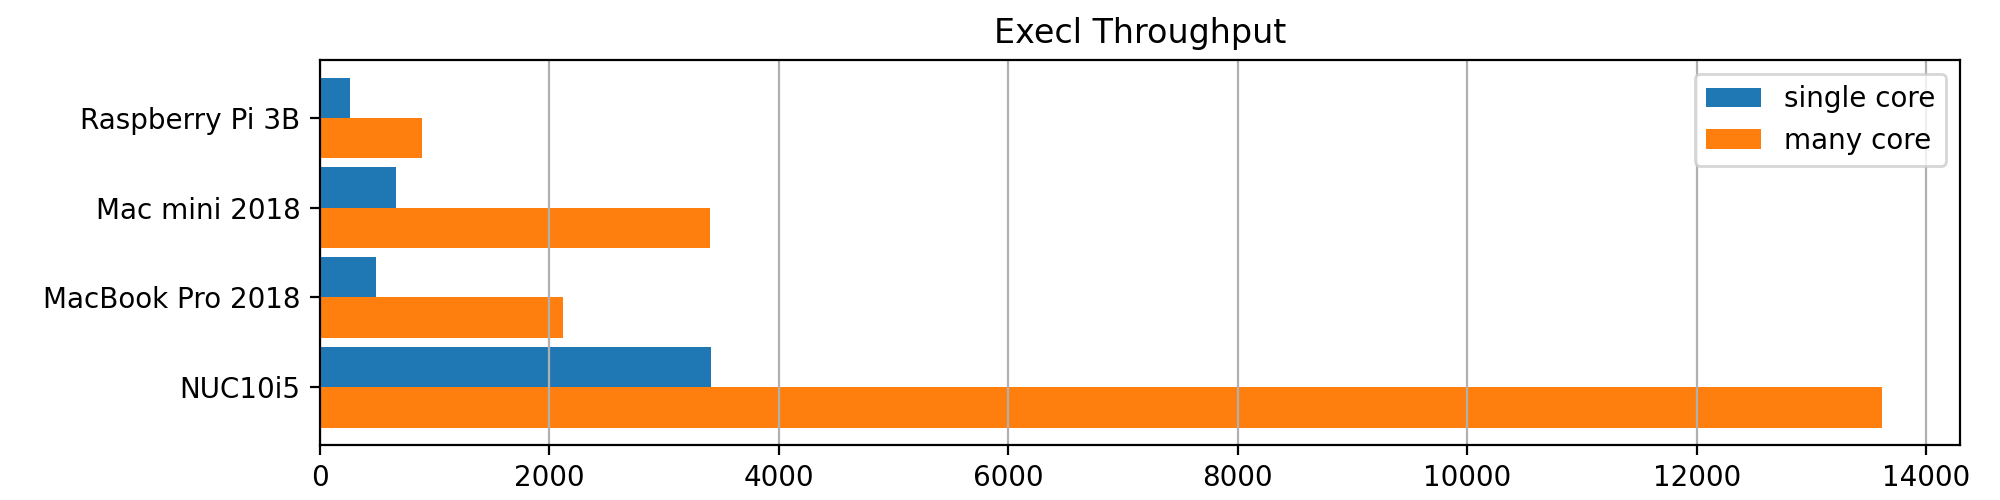
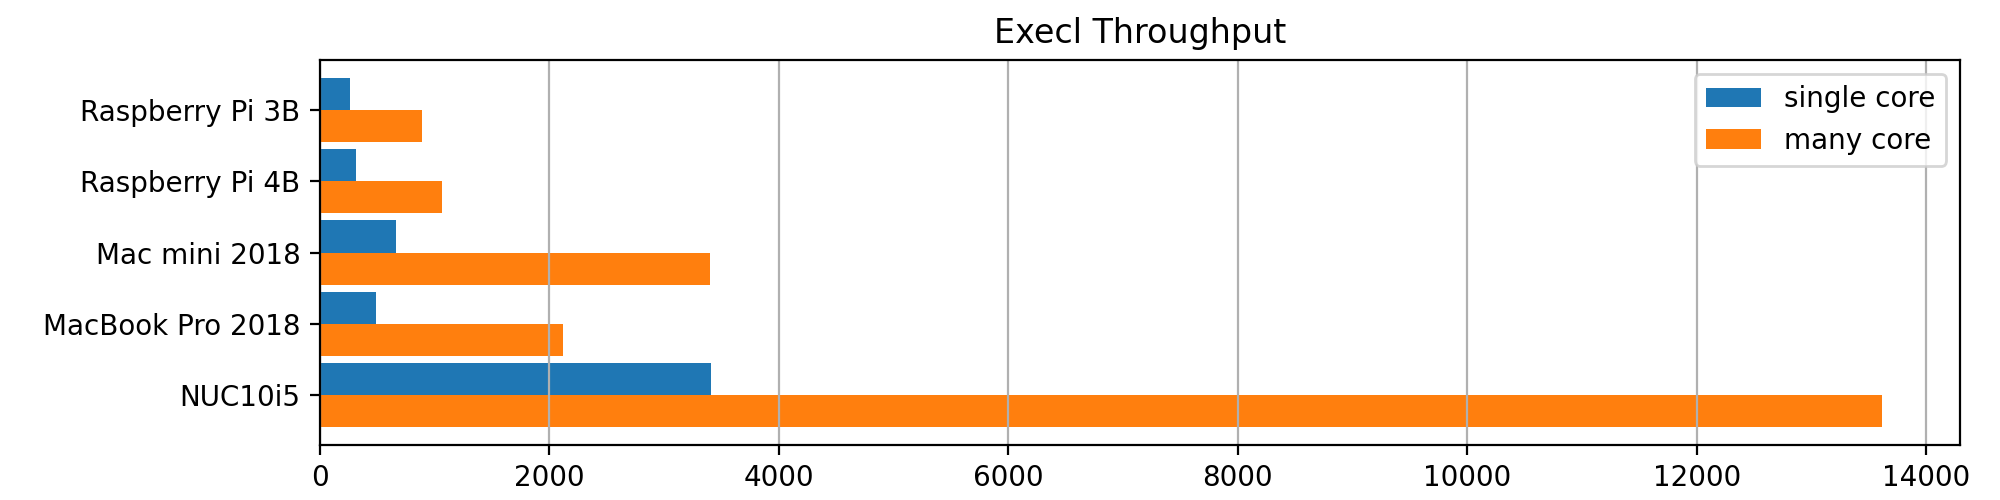
add Raspberry Pi 4B

Changed region(s): [[0.0, 0.27, 0.961, 0.81], [0.031, 0.18, 0.217, 0.27]]

diff --git a/raspi4B-2020-11-18-01.html b/raspi4B-2020-11-18-01.html
@@ -1,0 +1,344 @@
+<!DOCTYPE HTML PUBLIC "-//W3C//DTD HTML 4.01 Transitional//EN"
+"http://www.w3.org/TR/html4/loose.dtd">
+<html>
+<head>
+  <meta http-equiv="Content-Type" content="text/html; charset=utf-8">
+  <meta name="keywords" content="linux, benchmarks, benchmarking">
+  <title>Benchmark of Raspberry Pi 4B / GNU/Linux on 水 11月 18 2020</title>
+  <style type="text/css">
+    table {
+      margin: 1em 1em 1em 0;
+      background: #f9f9f9;
+      border: 1px #aaaaaa solid;
+      border-collapse: collapse;
+    }
+
+    table th, table td {
+      border: 1px #aaaaaa solid;
+      padding: 0.2em;
+    }
+
+    table th {
+      background: #f2f2f2;
+      text-align: center;
+    }
+  </style>
+</head>
+<body>
+<h2>Benchmark of Raspberry Pi 4B / GNU/Linux on 水 11月 18 2020</h2>
+<p><b>BYTE UNIX Benchmarks (Version 5.1.3)</b></p>
+
+<h3>Test System Information</h3>
+<p><table>
+<tr>
+   <td><b>System:</b></td>
+   <td colspan=2>Raspberry Pi 4B: GNU/Linux</td>
+</tr><tr>
+   <td><b>OS:</b></td>
+   <td colspan=2>GNU/Linux -- 5.4.72-v7l+ -- #1356 SMP Thu Oct 22 13:57:51 BST 2020</td>
+</tr><tr>
+   <td><b>Machine:</b></td>
+   <td colspan=2>armv7l: unknown</td>
+</tr><tr>
+   <td><b>Language:</b></td>
+   <td colspan=2>en_US.utf8 (charmap="UTF-8", collate="UTF-8")</td>
+</tr>
+<tr>
+   <td rowspan=4><b>CPUs:</b></td>
+   <td><b>0:</b></td>
+   <td>ARMv7 Processor rev 3 (v7l) (0.0 bogomips)<br/>
+       </td>
+</tr>
+<tr>
+   <td><b>1:</b></td>
+   <td>ARMv7 Processor rev 3 (v7l) (0.0 bogomips)<br/>
+       </td>
+</tr>
+<tr>
+   <td><b>2:</b></td>
+   <td>ARMv7 Processor rev 3 (v7l) (0.0 bogomips)<br/>
+       </td>
+</tr>
+<tr>
+   <td><b>3:</b></td>
+   <td>ARMv7 Processor rev 3 (v7l) (0.0 bogomips)<br/>
+       </td>
+</tr>
+<tr>
+   <td><b>Uptime:</b></td>
+   <td colspan=2>08:19:53 up 3 min,  3 users,  load average: 0.50, 0.44, 0.19; runlevel 2020-11-12</td>
+</tr>
+</table></p>
+
+<p><hr/></p>
+<h3>Benchmark Run: 4 CPUs; 1 parallel process</h3>
+<p>Time: 08:19:53 - 08:47:50; 27m 57s</p>
+
+<h4>System Benchmarks</h4>
+<p><table width="100%">
+<tr>
+   <th align=left>Test</th>
+   <th align=right>Score</th>
+   <th align=left>Unit</th>
+   <th align=right>Time</th>
+   <th align=right>Iters.</th>
+   <th align=right>Baseline</th>
+   <th align=right>Index</th>
+</tr>
+<tr>
+   <td><b>Dhrystone 2 using register variables</b></td>
+   <td align=right><tt>10194328.3</tt></td>
+   <td align=left><tt>lps</tt></td>
+   <td align=right><tt>10.0 s</tt></td>
+   <td align=right><tt>7</tt></td>
+   <td align=right><tt>116700.0</tt></td>
+   <td align=right><tt>873.5</tt></td>
+</tr>
+<tr>
+   <td><b>Double-Precision Whetstone</b></td>
+   <td align=right><tt>2384.2</tt></td>
+   <td align=left><tt>MWIPS</tt></td>
+   <td align=right><tt>9.6 s</tt></td>
+   <td align=right><tt>7</tt></td>
+   <td align=right><tt>55.0</tt></td>
+   <td align=right><tt>433.5</tt></td>
+</tr>
+<tr>
+   <td><b>Execl Throughput</b></td>
+   <td align=right><tt>311.0</tt></td>
+   <td align=left><tt>lps</tt></td>
+   <td align=right><tt>29.9 s</tt></td>
+   <td align=right><tt>2</tt></td>
+   <td align=right><tt>43.0</tt></td>
+   <td align=right><tt>72.3</tt></td>
+</tr>
+<tr>
+   <td><b>File Copy 1024 bufsize 2000 maxblocks</b></td>
+   <td align=right><tt>88166.8</tt></td>
+   <td align=left><tt>KBps</tt></td>
+   <td align=right><tt>30.0 s</tt></td>
+   <td align=right><tt>2</tt></td>
+   <td align=right><tt>3960.0</tt></td>
+   <td align=right><tt>222.6</tt></td>
+</tr>
+<tr>
+   <td><b>File Copy 256 bufsize 500 maxblocks</b></td>
+   <td align=right><tt>24991.8</tt></td>
+   <td align=left><tt>KBps</tt></td>
+   <td align=right><tt>30.0 s</tt></td>
+   <td align=right><tt>2</tt></td>
+   <td align=right><tt>1655.0</tt></td>
+   <td align=right><tt>151.0</tt></td>
+</tr>
+<tr>
+   <td><b>File Copy 4096 bufsize 8000 maxblocks</b></td>
+   <td align=right><tt>252536.3</tt></td>
+   <td align=left><tt>KBps</tt></td>
+   <td align=right><tt>30.0 s</tt></td>
+   <td align=right><tt>2</tt></td>
+   <td align=right><tt>5800.0</tt></td>
+   <td align=right><tt>435.4</tt></td>
+</tr>
+<tr>
+   <td><b>Pipe Throughput</b></td>
+   <td align=right><tt>94938.8</tt></td>
+   <td align=left><tt>lps</tt></td>
+   <td align=right><tt>10.0 s</tt></td>
+   <td align=right><tt>7</tt></td>
+   <td align=right><tt>12440.0</tt></td>
+   <td align=right><tt>76.3</tt></td>
+</tr>
+<tr>
+   <td><b>Pipe-based Context Switching</b></td>
+   <td align=right><tt>33190.6</tt></td>
+   <td align=left><tt>lps</tt></td>
+   <td align=right><tt>10.0 s</tt></td>
+   <td align=right><tt>7</tt></td>
+   <td align=right><tt>4000.0</tt></td>
+   <td align=right><tt>83.0</tt></td>
+</tr>
+<tr>
+   <td><b>Process Creation</b></td>
+   <td align=right><tt>1398.9</tt></td>
+   <td align=left><tt>lps</tt></td>
+   <td align=right><tt>30.0 s</tt></td>
+   <td align=right><tt>2</tt></td>
+   <td align=right><tt>126.0</tt></td>
+   <td align=right><tt>111.0</tt></td>
+</tr>
+<tr>
+   <td><b>Shell Scripts (1 concurrent)</b></td>
+   <td align=right><tt>1591.5</tt></td>
+   <td align=left><tt>lpm</tt></td>
+   <td align=right><tt>60.0 s</tt></td>
+   <td align=right><tt>2</tt></td>
+   <td align=right><tt>42.4</tt></td>
+   <td align=right><tt>375.4</tt></td>
+</tr>
+<tr>
+   <td><b>Shell Scripts (8 concurrent)</b></td>
+   <td align=right><tt>427.1</tt></td>
+   <td align=left><tt>lpm</tt></td>
+   <td align=right><tt>60.1 s</tt></td>
+   <td align=right><tt>2</tt></td>
+   <td align=right><tt>6.0</tt></td>
+   <td align=right><tt>711.8</tt></td>
+</tr>
+<tr>
+   <td><b>System Call Overhead</b></td>
+   <td align=right><tt>489882.6</tt></td>
+   <td align=left><tt>lps</tt></td>
+   <td align=right><tt>10.0 s</tt></td>
+   <td align=right><tt>7</tt></td>
+   <td align=right><tt>15000.0</tt></td>
+   <td align=right><tt>326.6</tt></td>
+</tr>
+<tr>
+   <td colspan=6><b>System Benchmarks Index Score:</b></td>
+   <td align=right><b><tt>232.2</tt></b></td>
+</tr>
+</table></p>
+
+<p><hr/></p>
+<h3>Benchmark Run: 4 CPUs; 4 parallel processes</h3>
+<p>Time: 08:47:50 - 09:15:54; 28m 04s</p>
+
+<h4>System Benchmarks</h4>
+<p><table width="100%">
+<tr>
+   <th align=left>Test</th>
+   <th align=right>Score</th>
+   <th align=left>Unit</th>
+   <th align=right>Time</th>
+   <th align=right>Iters.</th>
+   <th align=right>Baseline</th>
+   <th align=right>Index</th>
+</tr>
+<tr>
+   <td><b>Dhrystone 2 using register variables</b></td>
+   <td align=right><tt>38648517.3</tt></td>
+   <td align=left><tt>lps</tt></td>
+   <td align=right><tt>10.0 s</tt></td>
+   <td align=right><tt>7</tt></td>
+   <td align=right><tt>116700.0</tt></td>
+   <td align=right><tt>3311.8</tt></td>
+</tr>
+<tr>
+   <td><b>Double-Precision Whetstone</b></td>
+   <td align=right><tt>9052.7</tt></td>
+   <td align=left><tt>MWIPS</tt></td>
+   <td align=right><tt>9.6 s</tt></td>
+   <td align=right><tt>7</tt></td>
+   <td align=right><tt>55.0</tt></td>
+   <td align=right><tt>1645.9</tt></td>
+</tr>
+<tr>
+   <td><b>Execl Throughput</b></td>
+   <td align=right><tt>1060.6</tt></td>
+   <td align=left><tt>lps</tt></td>
+   <td align=right><tt>29.9 s</tt></td>
+   <td align=right><tt>2</tt></td>
+   <td align=right><tt>43.0</tt></td>
+   <td align=right><tt>246.7</tt></td>
+</tr>
+<tr>
+   <td><b>File Copy 1024 bufsize 2000 maxblocks</b></td>
+   <td align=right><tt>158468.9</tt></td>
+   <td align=left><tt>KBps</tt></td>
+   <td align=right><tt>30.0 s</tt></td>
+   <td align=right><tt>2</tt></td>
+   <td align=right><tt>3960.0</tt></td>
+   <td align=right><tt>400.2</tt></td>
+</tr>
+<tr>
+   <td><b>File Copy 256 bufsize 500 maxblocks</b></td>
+   <td align=right><tt>42662.3</tt></td>
+   <td align=left><tt>KBps</tt></td>
+   <td align=right><tt>30.0 s</tt></td>
+   <td align=right><tt>2</tt></td>
+   <td align=right><tt>1655.0</tt></td>
+   <td align=right><tt>257.8</tt></td>
+</tr>
+<tr>
+   <td><b>File Copy 4096 bufsize 8000 maxblocks</b></td>
+   <td align=right><tt>498279.4</tt></td>
+   <td align=left><tt>KBps</tt></td>
+   <td align=right><tt>30.0 s</tt></td>
+   <td align=right><tt>2</tt></td>
+   <td align=right><tt>5800.0</tt></td>
+   <td align=right><tt>859.1</tt></td>
+</tr>
+<tr>
+   <td><b>Pipe Throughput</b></td>
+   <td align=right><tt>350009.7</tt></td>
+   <td align=left><tt>lps</tt></td>
+   <td align=right><tt>10.0 s</tt></td>
+   <td align=right><tt>7</tt></td>
+   <td align=right><tt>12440.0</tt></td>
+   <td align=right><tt>281.4</tt></td>
+</tr>
+<tr>
+   <td><b>Pipe-based Context Switching</b></td>
+   <td align=right><tt>124581.8</tt></td>
+   <td align=left><tt>lps</tt></td>
+   <td align=right><tt>10.0 s</tt></td>
+   <td align=right><tt>7</tt></td>
+   <td align=right><tt>4000.0</tt></td>
+   <td align=right><tt>311.5</tt></td>
+</tr>
+<tr>
+   <td><b>Process Creation</b></td>
+   <td align=right><tt>3686.7</tt></td>
+   <td align=left><tt>lps</tt></td>
+   <td align=right><tt>30.0 s</tt></td>
+   <td align=right><tt>2</tt></td>
+   <td align=right><tt>126.0</tt></td>
+   <td align=right><tt>292.6</tt></td>
+</tr>
+<tr>
+   <td><b>Shell Scripts (1 concurrent)</b></td>
+   <td align=right><tt>3431.5</tt></td>
+   <td align=left><tt>lpm</tt></td>
+   <td align=right><tt>60.1 s</tt></td>
+   <td align=right><tt>2</tt></td>
+   <td align=right><tt>42.4</tt></td>
+   <td align=right><tt>809.3</tt></td>
+</tr>
+<tr>
+   <td><b>Shell Scripts (8 concurrent)</b></td>
+   <td align=right><tt>475.1</tt></td>
+   <td align=left><tt>lpm</tt></td>
+   <td align=right><tt>60.2 s</tt></td>
+   <td align=right><tt>2</tt></td>
+   <td align=right><tt>6.0</tt></td>
+   <td align=right><tt>791.8</tt></td>
+</tr>
+<tr>
+   <td><b>System Call Overhead</b></td>
+   <td align=right><tt>1763918.7</tt></td>
+   <td align=left><tt>lps</tt></td>
+   <td align=right><tt>10.0 s</tt></td>
+   <td align=right><tt>7</tt></td>
+   <td align=right><tt>15000.0</tt></td>
+   <td align=right><tt>1175.9</tt></td>
+</tr>
+<tr>
+   <td colspan=6><b>System Benchmarks Index Score:</b></td>
+   <td align=right><b><tt>602.8</tt></b></td>
+</tr>
+</table></p>
+
+<p><hr/></p>
+<div><b>No Warranties:</b> This information is provided free of charge and "as
+is" without any warranty, condition, or representation of any kind,
+either express or implied, including but not limited to, any warranty
+respecting non-infringement, and the implied warranties of conditions
+of merchantability and fitness for a particular purpose. All logos or
+trademarks on this site are the property of their respective owner. In
+no event shall the author be liable for any
+direct, indirect, special, incidental, consequential or other damages
+howsoever caused whether arising in contract, tort, or otherwise,
+arising out of or in connection with the use or performance of the
+information contained on this web site.</div>
+</body>
+</html>

diff --git a/README.md b/README.md
@@ -1,6 +1,7 @@
 # Unix Bench
 
 - [Raspberry Pi 3B](https://htmlpreview.github.io/?https://github.com/kose/benchmark-UnixBench/blob/main/raspi3B-2020-11-15-01.html) : ARM Cortex-A53, 4コア, 1.2GHz
+- [Raspberry Pi 4B](https://htmlpreview.github.io/?https://github.com/kose/benchmark-UnixBench/blob/main/raspi4B-2020-11-18-01.html) : ARM Cortex-A72, 4コア, 1.5GHz
 - [Mac mini 2018](https://htmlpreview.github.io/?https://github.com/kose/benchmark-UnixBench/blob/main/mini2018.local-2020-11-15-01.html) : Core i5-8500B, 6コア, 3.00GHz
 - [MacBook Pro 2018](https://htmlpreview.github.io/?https://github.com/kose/benchmark-UnixBench/blob/main/MBP2018.local-2020-11-16-01.html) : Core i5-8259, 8コア, 2.30GHz
 - [NUC10i5](https://htmlpreview.github.io/?https://github.com/kose/benchmark-UnixBench/blob/main/nuc10i5-2020-11-15-01.html) : Core i5-10210U, 8コア, 1.60GHz
@@ -19,6 +20,10 @@
 ![10](images/10.png)
 ![11](images/11.png)
 ![12](images/12.png)
+
+## TODO
+
+Raspberry Pi 3B vs 4B の比較は、SDメモリカードを同一にして再計測すべき！
 
 ## tools
 
